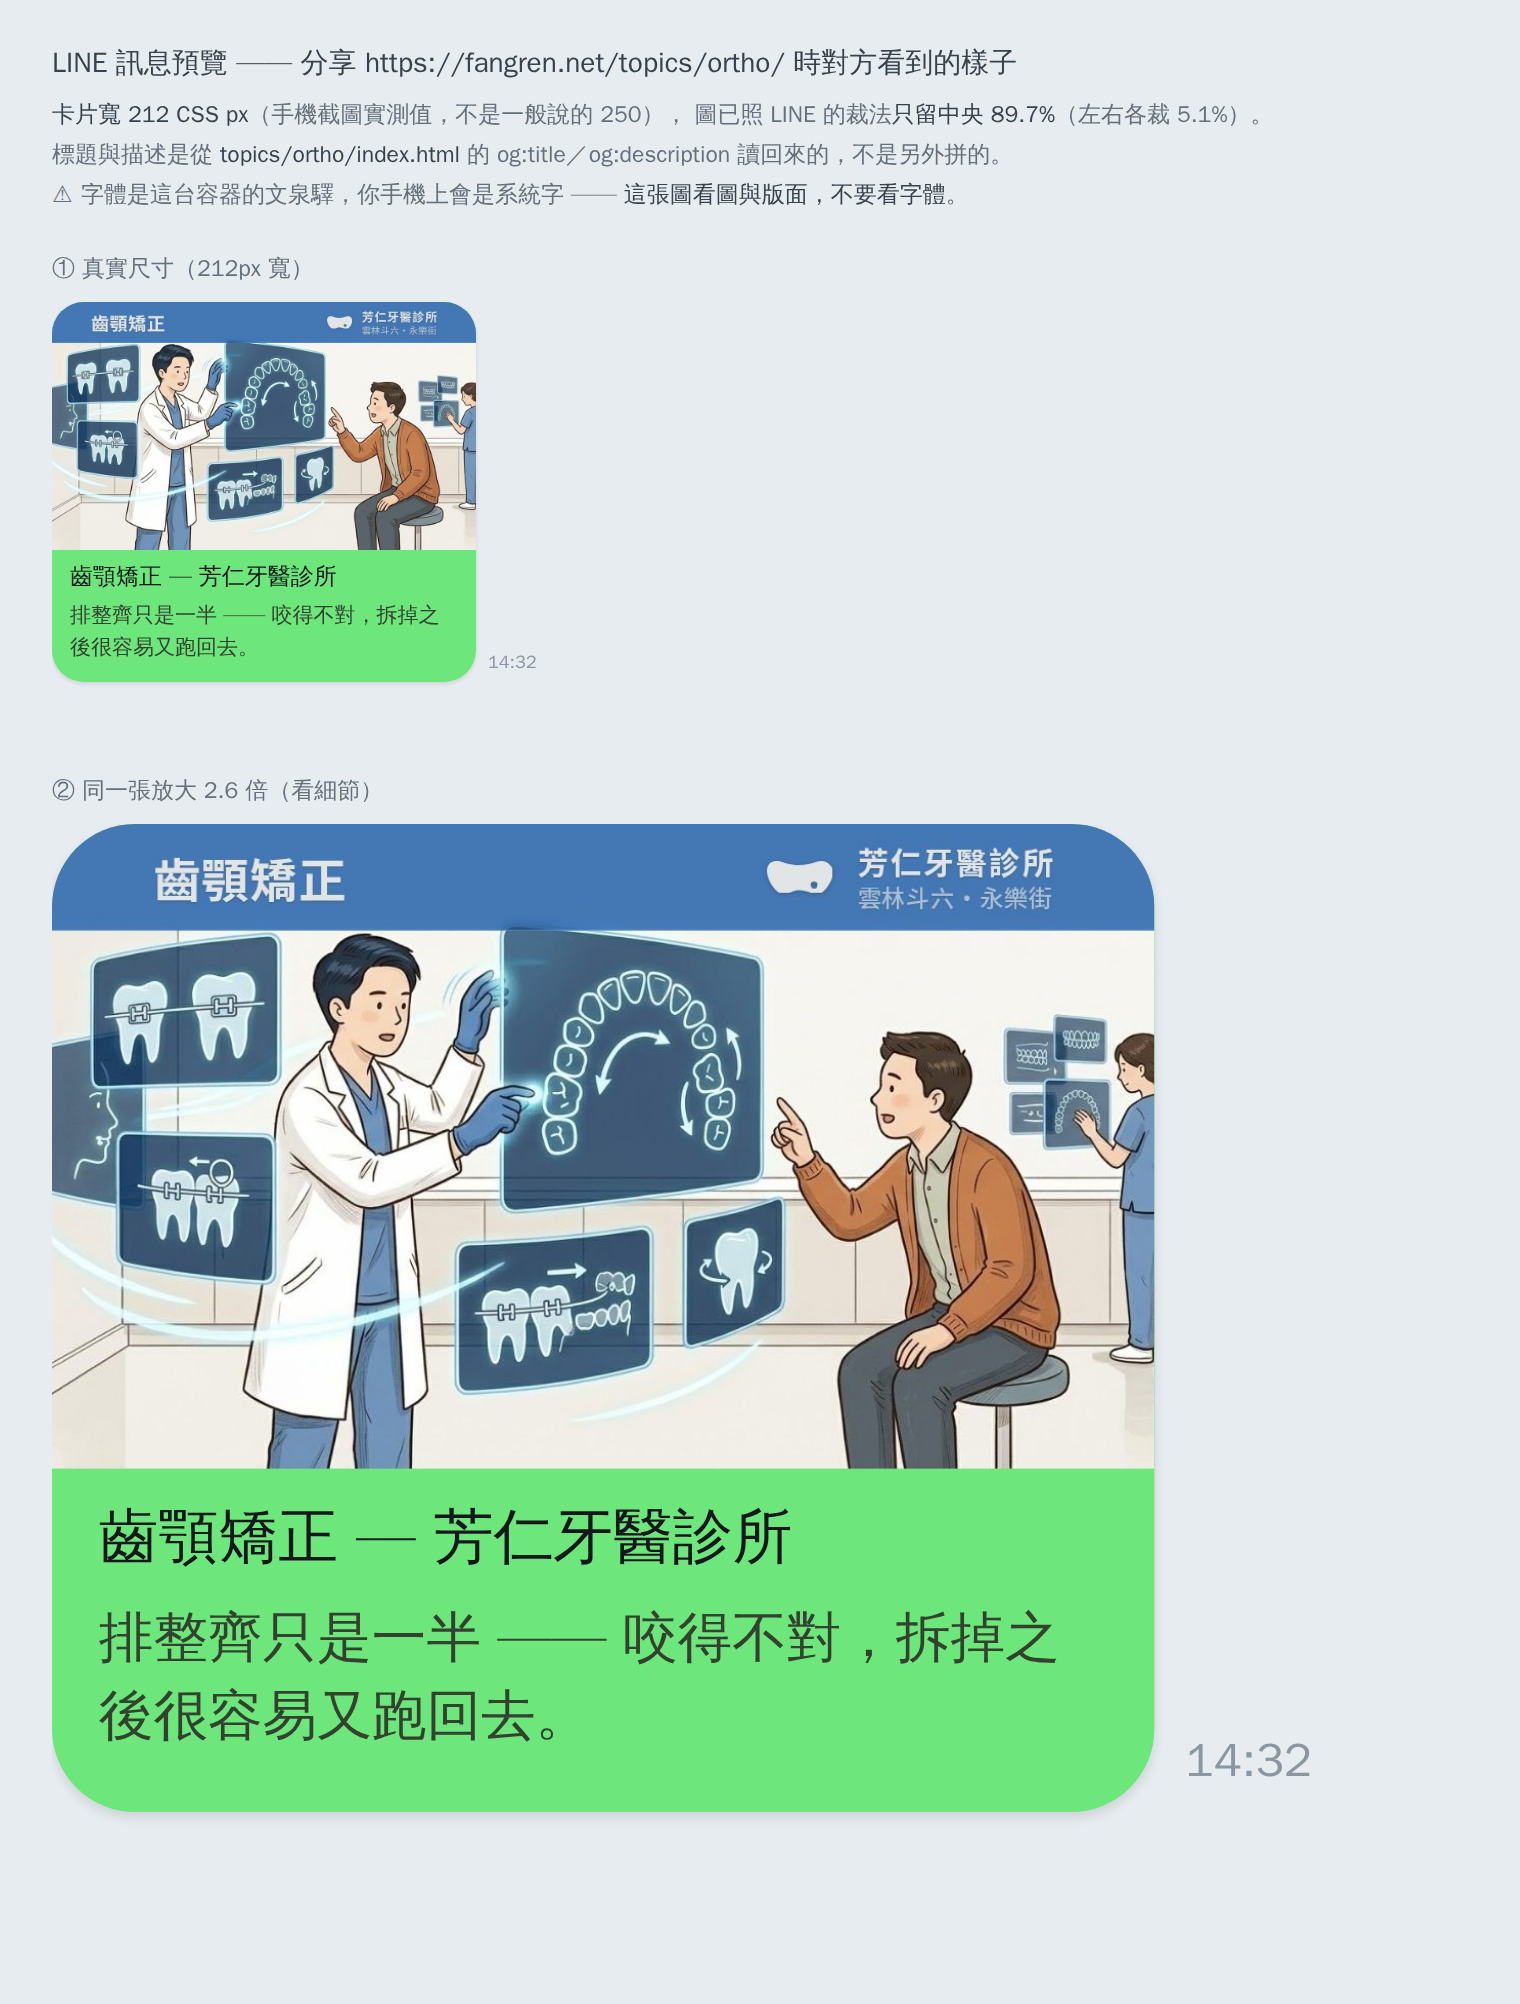
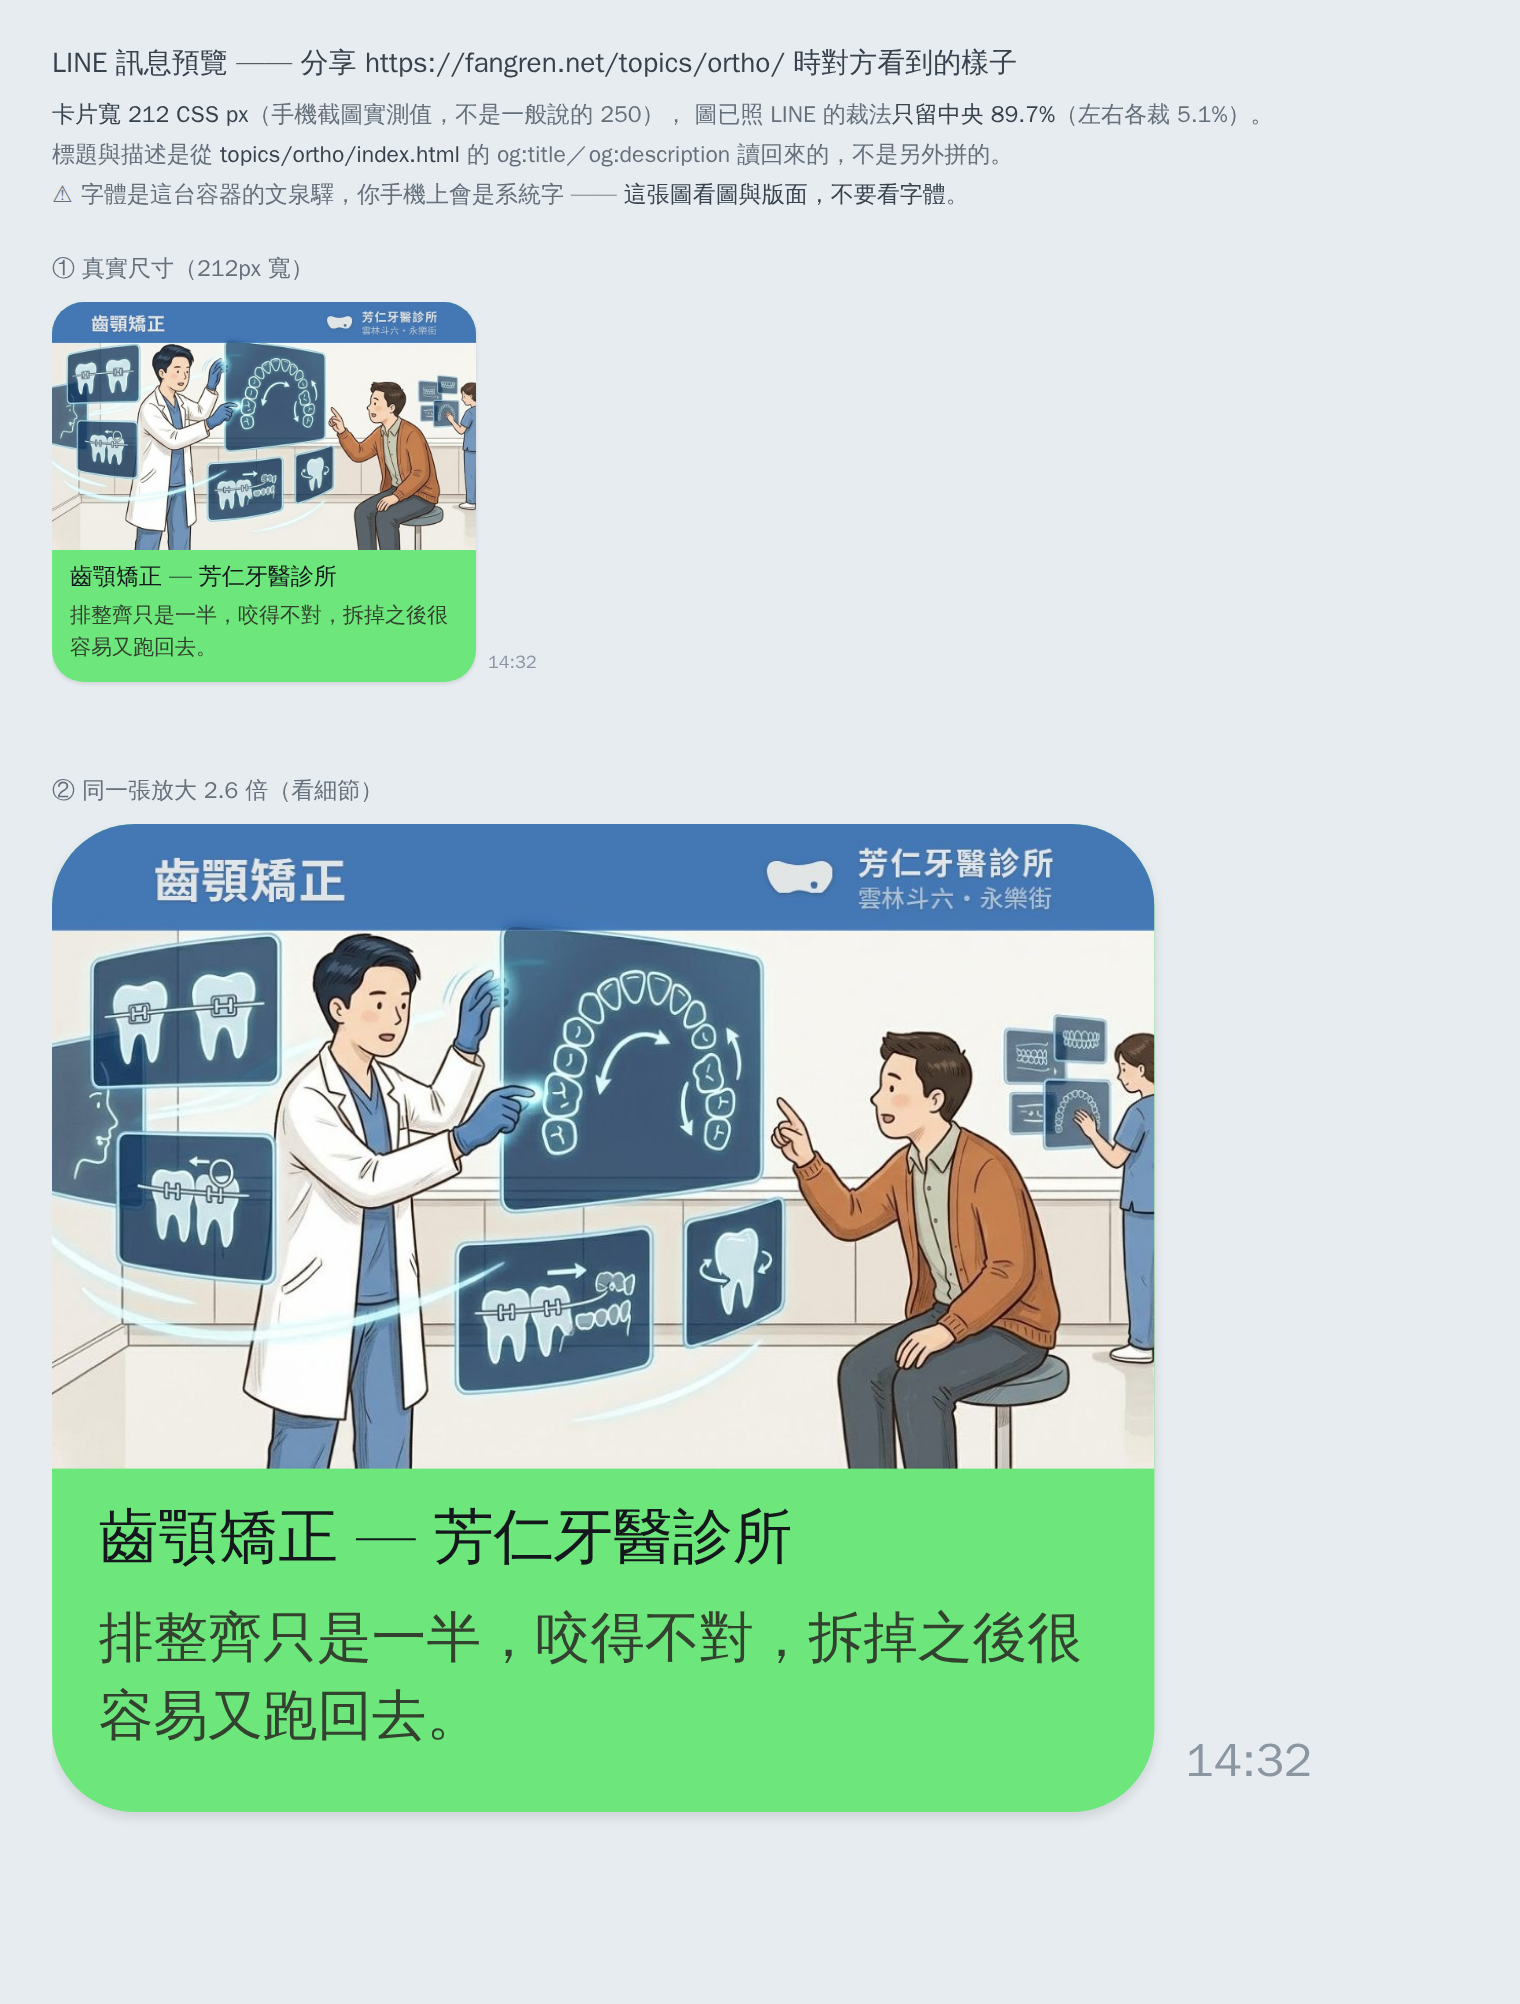
矯正分享卡的描述改用逗號（使用者指定）

diff --git a/topics/ortho/index.html b/topics/ortho/index.html
@@ -117,7 +117,7 @@
 <meta property="og:type" content="website">
 <meta property="og:url" content="https://fangren.net/topics/ortho/">
 <meta property="og:title" content="齒顎矯正 — 芳仁牙醫診所">
-<meta property="og:description" content="排整齊只是一半 —— 咬得不對，拆掉之後很容易又跑回去。">
+<meta property="og:description" content="排整齊只是一半，咬得不對，拆掉之後很容易又跑回去。">
 <meta property="og:locale" content="zh_TW">
 <meta property="og:image" content="https://fangren.net/assets/og-topic-ortho.jpg">
 <meta property="og:image:width" content="1200">
